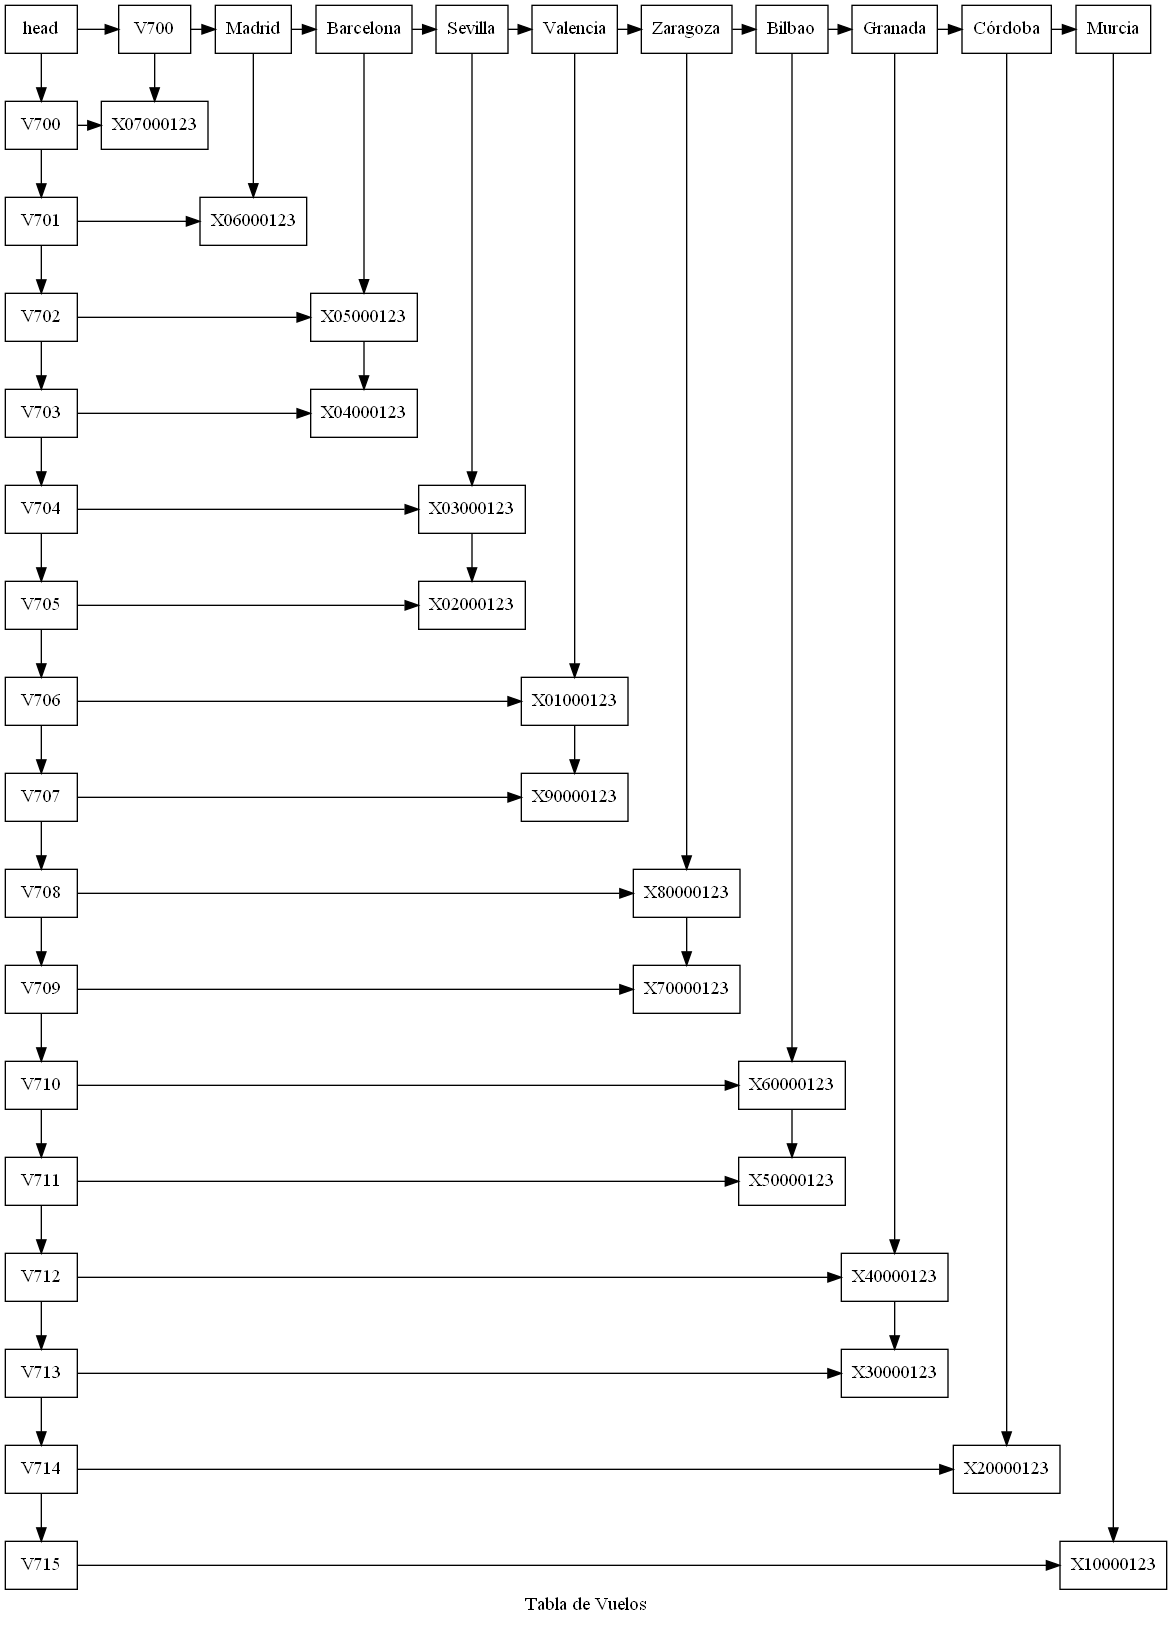
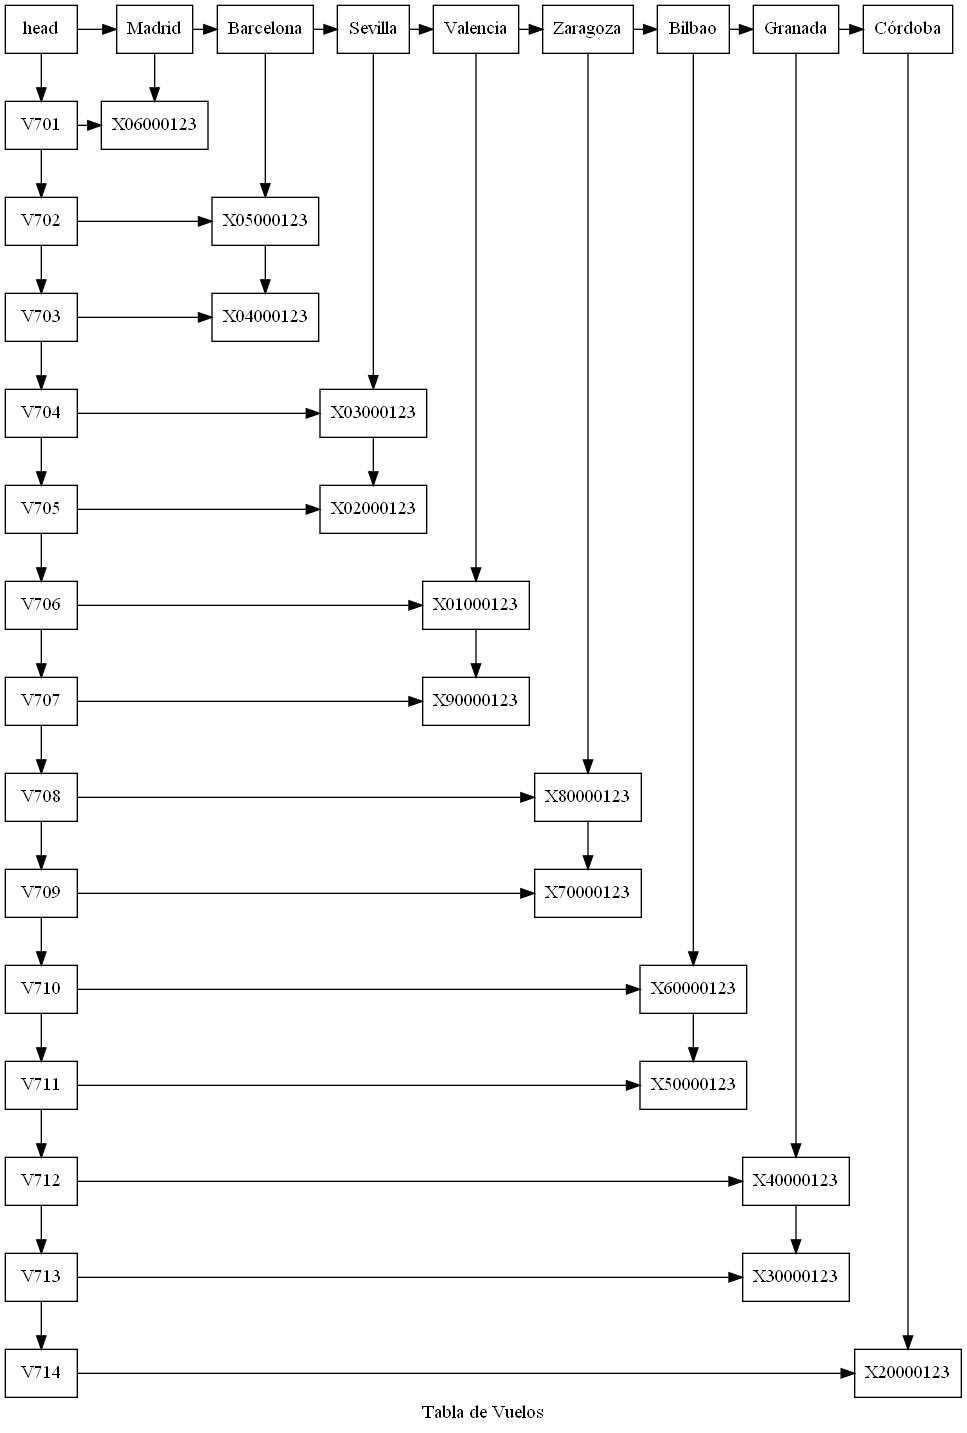
Borrar nodos matriz dispersa

Changed region(s): [[0.0, 0.0, 1.0, 0.9826], [0.4343, 0.9518, 0.5584, 1.0]]

diff --git a/cabeceras/matrizDispersa.h b/cabeceras/matrizDispersa.h
@@ -33,6 +33,8 @@ private:
     HeadNode* getOrCreateColHead(const string& col);
     void removeFromRow(const string& row, const string& col);
     void removeFromCol(const string& row, const string& col);
+    void removeEmptyRow();
+    void removeEmptyCol();
     void appendHeadNode(HeadNode*& head, HeadNode* newNode);
     void appendDataNode(NodeMatriz*& head, NodeMatriz* newNode, bool isRow);
 
@@ -40,7 +42,7 @@ public:
     MatrizDispersa();
     ~MatrizDispersa();
     void insert(const string& row, const string& col, const string& value);
-    void remove(const std::string& row, const std::string& col);
+    void remove(const std::string& row, const std::string& val);
     //void display();
     void generateDot(const string& filename);
 };
@@ -117,7 +119,47 @@ void MatrizDispersa::insert(const string& row, const string& col, const string& 
     appendDataNode(colNode->node, newNode, false);
 }
 
-void MatrizDispersa::removeFromRow(const string& row, const string& col) {
+void MatrizDispersa::removeEmptyCol(){
+    HeadNode * rowNode = colHead;
+
+    while(rowNode){
+        if(!rowNode->node){
+            if(rowNode->next && rowNode->prev){
+                rowNode->prev->next=rowNode->next;
+                rowNode->next->prev=rowNode->prev;
+            }
+            if(rowNode==colHead){
+                colHead=colHead->next;
+            }
+            if(!rowNode->next){
+                rowNode->prev->next=nullptr;
+            }
+        }
+            rowNode=rowNode->next;
+    }
+}
+
+void MatrizDispersa::removeEmptyRow(){
+    HeadNode * rowNode = rowHead;
+
+    while(rowNode){
+        if(!rowNode->node){
+            if(rowNode->next && rowNode->prev){
+                rowNode->prev->next=rowNode->next;
+                rowNode->next->prev=rowNode->prev;
+            }
+            if(rowNode==rowHead){
+                rowHead=rowNode->next;
+            }
+            if(!rowNode->next){
+                rowNode->prev->next=nullptr;
+            }
+        }
+            rowNode=rowNode->next;
+    }
+}
+
+void MatrizDispersa::removeFromRow(const string& row, const string& val) {
     HeadNode* rowNode = rowHead;
     while (rowNode && rowNode->index != row) {
         rowNode = rowNode->next;
@@ -126,14 +168,15 @@ void MatrizDispersa::removeFromRow(const string& row, const string& col) {
     if (!rowNode) return;
 
     NodeMatriz* temp = rowNode->node;
-    if (temp->col == col) {
+    if (temp->value == val) {
         rowNode->node = temp->right;
         if (temp->right) temp->right->left = nullptr;
-        delete temp;
+        removeFromCol(temp->col,val);
+        //delete temp;
         return;
     }
 
-    while (temp->right && temp->right->col != col) {
+    while (temp->right && temp->right->value != val) {
         temp = temp->right;
     }
 
@@ -145,26 +188,23 @@ void MatrizDispersa::removeFromRow(const string& row, const string& col) {
     }
 }
 
-void MatrizDispersa::removeFromCol(const string& row, const string& col) {
+void MatrizDispersa::removeFromCol(const string& col, const string& val) {
     HeadNode* colNode = colHead;
     while (colNode && colNode->index != col) {
         colNode = colNode->next;
     }
 
     if (!colNode) return;
-
     NodeMatriz* temp = colNode->node;
-    if (temp->row == row) {
+    if (temp->value == val) {
         colNode->node = temp->down;
         if (temp->down) temp->down->up = nullptr;
         delete temp;
         return;
     }
-
-    while (temp->down && temp->down->row != row) {
+    while (temp->down && temp->down->value != val) {
         temp = temp->down;
     }
-
     if (temp->down) {
         NodeMatriz* toDelete = temp->down;
         temp->down = toDelete->down;
@@ -173,9 +213,10 @@ void MatrizDispersa::removeFromCol(const string& row, const string& col) {
     }
 }
 
-void MatrizDispersa::remove(const string& row, const string& col) {
-    removeFromRow(row, col);
-    removeFromCol(row, col);
+void MatrizDispersa::remove(const string& row, const string& val) {
+    removeFromRow(row, val);
+    removeEmptyRow();
+    removeEmptyCol();
 }
 
 /*void MatrizDispersa::display() {

diff --git a/main.cpp b/main.cpp
@@ -197,7 +197,7 @@ void cMovimientos(){
             // Encontrar la posición del número de avión
             size_t pos = linea.find_last_of(',') + 1;
             string avion = linea.substr(pos, linea.length() - pos - 1);
-            
+
             cirDoble.insert(avion);
             cout<<"Ingreso de "<<avion<<" a lista de mantenimiento"<<endl;
             arbolB.remove(avion);
@@ -225,7 +225,8 @@ void cMovimientos(){
                 cout<<"eliminado "<<piloto<<" de tabla Hash"<<endl;
                 aBinario.remove(eliminado->hVuelo);
                 cout<<"eliminado "<<piloto<<" de arbol binario"<<endl;
-                //matriz.remove(eliminado->vuelo,eliminado->getDato());
+                matriz.remove(eliminado->vuelo,eliminado->getDato());
+                cout<<"eliminado "<<piloto<<" de matriz dispersa"<<endl;
             }else{
                 cout<<"No se encontro el registro para "<<piloto<<endl;
             }

diff --git a/cabeceras/GrafoDirigido.h b/cabeceras/GrafoDirigido.h
@@ -33,7 +33,7 @@ public:
     void agregarVertice(string v) {
         if (buscarIndice(v) == -1) {
             if (numVertices == capacidad) {
-                cout << "Capacidad máxima alcanzada. No se puede agregar más vértices." << endl;
+                cout << "Capacidad maxima alcanzada. No se puede agregar mas vértices." << endl;
                 return;
             }
             vertices[numVertices] = v;
@@ -47,7 +47,7 @@ public:
         int v_idx = buscarIndice(v);
 
         if (u_idx == -1 || v_idx == -1) {
-            cout << "Uno o ambos vértices no existen." << endl;
+            cout << "Uno o ambos vertices no existen." << endl;
             return;
         }
 
